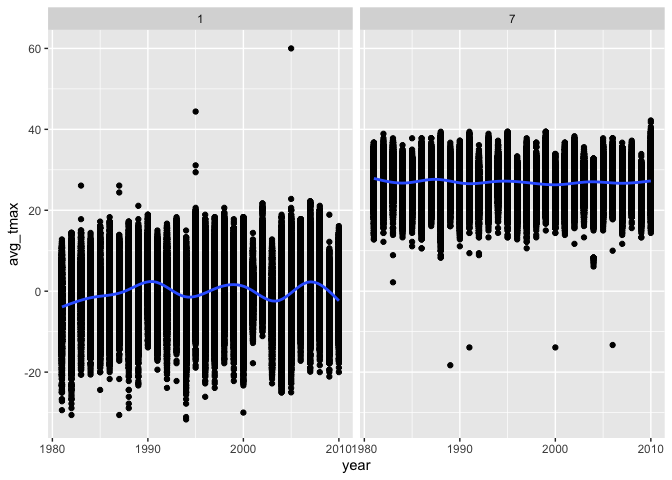
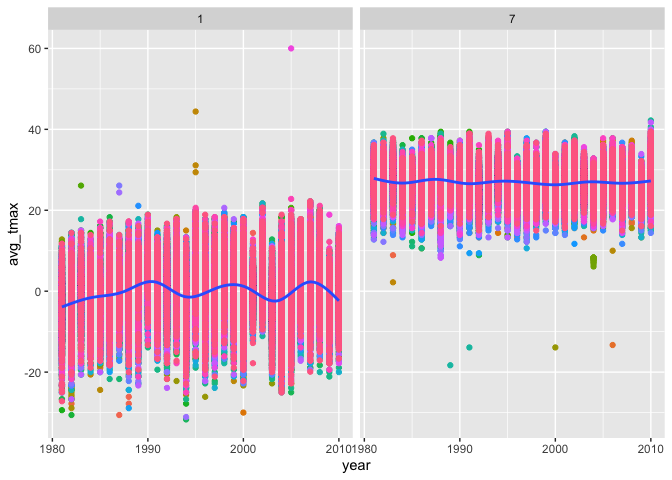
finished p2 p3

diff --git a/p8105_hw3_yl4608.md b/p8105_hw3_yl4608.md
@@ -30,6 +30,7 @@ library(tidyverse)
 ``` r
 library(dplyr)
 library(ggridges)
+library(hexbin)
 data("instacart")
 ```
 
@@ -484,10 +485,11 @@ ny_noaa_tidy %>%
     ## `summarise()` regrouping output by 'id', 'month', 'year' (override with `.groups` argument)
 
 ``` r
-ggplot(ny_noaa_df1, aes(x = year, avg_tmax)) + 
-  geom_point()+
+ggplot(ny_noaa_df1, aes(x = year, avg_tmax), show_legend = FALSE) + 
+  geom_point(aes(color = id))+
   geom_smooth(se = FALSE)+
-  facet_grid(.~month)
+  facet_grid(.~month) + 
+  theme(legend.position = "none")
 ```
 
     ## `geom_smooth()` using method = 'gam' and formula 'y ~ s(x, bs = "cs")'
@@ -512,3 +514,27 @@ Make a two-panel plot showing (i) tmax vs tmin for the full dataset
 (note that a scatterplot may not be the best option); (ii) make a plot
 showing the distribution of snowfall values greater than 0 and less than
 100 separately by year.
+
+``` r
+ny_df2_plot =
+ny_noaa_tidy %>%
+  ggplot(aes(x = tmax, tmin)) +
+  geom_hex()
+```
+
+``` r
+ny_noaa_df3 = 
+ny_noaa_tidy %>% 
+  filter(snow > 0 & snow < 100) %>% 
+  group_by(year) %>% 
+  drop_na() 
+
+ny_df3_plot = 
+ny_noaa_tidy %>% 
+  ggplot(aes(x = snow, year, group = year))+
+  geom_density_ridges()
+```
+
+``` r
+##(ny_df2_plot + ny_df3_plot)
+```
